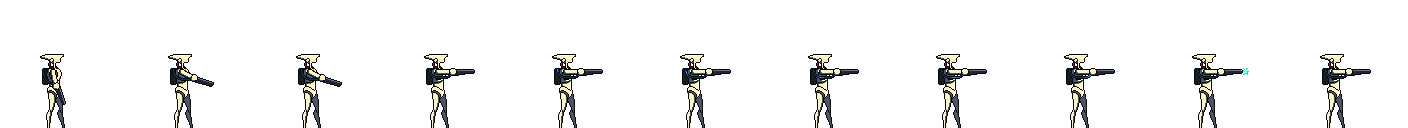
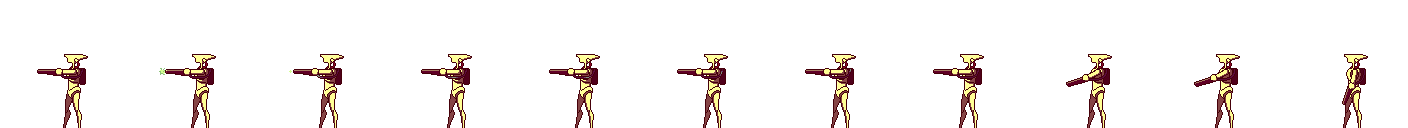
mtn y'a tout les perso

diff --git a/affichage.cpp b/affichage.cpp
@@ -49,6 +49,10 @@ int affichage(Terrain* terrain,mutex * lock_unit,mutex * lock_perso)
     sf::Texture pekka2;
     sf::Texture apekka;
     sf::Texture apekka2;
+    sf::Texture shooter;
+    sf::Texture shooter2;
+    sf::Texture ashooter;
+    sf::Texture ashooter2;
 
 
     sf::Texture pv_mob;
@@ -81,10 +85,16 @@ int affichage(Terrain* terrain,mutex * lock_unit,mutex * lock_perso)
 
     geant.loadFromFile("perso/geant/walking.png");
     geant2.loadFromFile("perso/geant/walking2.png");
+
     pekka.loadFromFile("perso/pekka/Walk1.png");
     pekka2.loadFromFile("perso/pekka/Walk2.png");
     apekka.loadFromFile("perso/pekka/Attack1.png");
     apekka2.loadFromFile("perso/pekka/Attack2.png");
+
+    shooter.loadFromFile("perso/shooter/Walk1.png");
+    shooter2.loadFromFile("perso/shooter/Walk2.png");
+    ashooter.loadFromFile("perso/shooter/Shot1.png");
+    ashooter2.loadFromFile("perso/shooter/Shot2.png");
 
 
     //Creation des sprites des elements graphiques
@@ -200,6 +210,15 @@ int affichage(Terrain* terrain,mutex * lock_unit,mutex * lock_perso)
     sapekka1.setTexture(apekka);
     sf::Sprite sapekka2;
     sapekka2.setTexture(apekka2);
+
+    sf::Sprite sshooter;
+    sshooter.setTexture(shooter);
+    sf::Sprite sshooter2;
+    sshooter2.setTexture(shooter2);
+    sf::Sprite sashooter;
+    sashooter.setTexture(ashooter);
+    sf::Sprite sashooter2;
+    sashooter2.setTexture(ashooter2);
 
 
 
@@ -404,7 +423,12 @@ int affichage(Terrain* terrain,mutex * lock_unit,mutex * lock_perso)
                 // detection des sorts de heal
                 if (sf::Keyboard::isKeyPressed(sf::Keyboard::S)){
                     if(elexir1>3){
-                    elexir1-=3;                    
+                    elexir1-=3;
+                    ajout_troupe_sort h;
+                    h.nom = 'S';
+                    h.joueur = 0;
+                    h.position = position_J1;
+                    tableau_ajout.push_back(h);             
                     if(heal[0][1]!=4*hz){
                         heal[1][0]=position_J1;
                         heal[1][1]=0;}
@@ -415,7 +439,12 @@ int affichage(Terrain* terrain,mutex * lock_unit,mutex * lock_perso)
                 }
                 if (sf::Keyboard::isKeyPressed(sf::Keyboard::K)){
                     if(elexir2>3){
-                    elexir2-=3;                    
+                    elexir2-=3;
+                    ajout_troupe_sort h;
+                    h.nom = 'S';
+                    h.joueur = 1;
+                    h.position = position_J1;
+                    tableau_ajout.push_back(h);                       
                     if(heal[2][1]!=4*hz){
                         heal[3][0]=position_J2;
                         heal[3][1]=0;}
@@ -428,6 +457,11 @@ int affichage(Terrain* terrain,mutex * lock_unit,mutex * lock_perso)
                 if (sf::Keyboard::isKeyPressed(sf::Keyboard::Q)){
                     if(elexir1>3){
                     elexir1-=3;
+                    ajout_troupe_sort p;
+                    p.nom = 'T';
+                    p.joueur = 0;
+                    p.position = position_J1;
+                    tableau_ajout.push_back(p);   
 
                     if(poison[0][1]!=6*120){
                         poison[1][0]=position_J1;
@@ -439,7 +473,12 @@ int affichage(Terrain* terrain,mutex * lock_unit,mutex * lock_perso)
                 }
                 if (sf::Keyboard::isKeyPressed(sf::Keyboard::J)){
                     if(elexir2>3){
-                    elexir2-=3;                    
+                    elexir2-=3;    
+                    ajout_troupe_sort t;
+                    t.nom = 'T';
+                    t.joueur = 1;
+                    t.position = position_J1;
+                    tableau_ajout.push_back(t);                   
                     if(poison[2][1]!=6*120){
                         poison[3][0]=position_J2;
                         poison[3][1]=0;}
@@ -510,20 +549,19 @@ int affichage(Terrain* terrain,mutex * lock_unit,mutex * lock_perso)
         //boule de feu
         //affichage des Boules de feu
         for (int k=0;k<4;k++){
+            if (BDF[k][1]==1){
+                ajout_troupe_sort t;
+                    t.nom = 'B';
+                    t.joueur = k/2;
+                    t.position = BDF[k][0];
+                    tableau_ajout.push_back(t);
+            }
             if (BDF[k][1]>0){
                 sbdf.setTextureRect(sf::IntRect(153*(BDF[k][1]%6),0,153,154));
                 sbdf.setPosition(sf::Vector2f(313 + (BDF[k][0]*1500)/Nombre_de_case,774-BDF[k][1]*8));
                 window.draw(sbdf);
                 BDF[k][1]--;
-                if (BDF[k][1]==1){
-                    ajout_troupe_sort b;
-                    b.nom = 'B';
-                    b.joueur = k/2;
-                    b.position = BDF[k][0];
-                    lock_unit->lock();
-                    tableau_ajout.push_back(b);
-                    lock_unit->unlock();
-        }
+
                 }
             }
         // affichage du sort de heal
@@ -537,13 +575,7 @@ int affichage(Terrain* terrain,mutex * lock_unit,mutex * lock_perso)
                     sheal.setPosition(sf::Vector2f(154 + (heal[k][0]*1500)/Nombre_de_case,710));}
                 window.draw(sheal);
                 heal[k][1]++;
-                if (heal[k][1]==1){
-                    ajout_troupe_sort h;
-                    h.nom = 'S';
-                    h.joueur = k/2;
-                    h.position = heal[k][0];
-                    tableau_ajout.push_back(h);
-                }
+                
                 }
             }
         for (int k=0;k<4;k++){
@@ -552,14 +584,6 @@ int affichage(Terrain* terrain,mutex * lock_unit,mutex * lock_perso)
                 spoison.setPosition(sf::Vector2f(160 + (poison[k][0]*1500)/Nombre_de_case,700));
                 window.draw(spoison);
                 poison[k][1]++;
-                if (poison[k][1]==1){
-                    //envoyer info au jeu
-                    ajout_troupe_sort p;
-                    p.nom = 'P';
-                    p.joueur = k/2;
-                    p.position = heal[k][0];
-                    tableau_ajout.push_back(p);
-                }
                 }
             }
         //////////////// affichage des personnages 
@@ -577,7 +601,6 @@ int affichage(Terrain* terrain,mutex * lock_unit,mutex * lock_perso)
                 else {
                     sgeant2.setTextureRect(sf::IntRect(808- 202*((compteur/10)%5),184*((compteur/50)%8),202,184));
                     sgeant2.setPosition(sf::Vector2f(154 +(unit.get_position()*1500)/Nombre_de_case,650));
-                    std::cout<< unit.get_position()<<std::endl;
                     window.draw(sgeant2);}
 
                 }
@@ -586,6 +609,26 @@ int affichage(Terrain* terrain,mutex * lock_unit,mutex * lock_perso)
             
             //affichage des infentries
             if (unit.get_nom() == 'I'){
+                if (unit.get_joueur()==0){
+                    if (unit.get_attaque()==0){
+                        sshooter.setTextureRect(sf::IntRect(128*((compteur/10)%6),0,128,128));
+                        sshooter.setPosition(sf::Vector2f(154 + (unit.get_position()*1500)/Nombre_de_case,706));
+                        window.draw(sshooter);}
+                    else{
+                        sashooter.setTextureRect(sf::IntRect(128*((compteur/10)%11),0,128,128));
+                        sashooter.setPosition(sf::Vector2f(154 + (unit.get_position()*1500)/Nombre_de_case,706));
+                        window.draw(sashooter);}
+                    }
+                else {
+                    if (unit.get_attaque()==0){
+                        sshooter2.setTextureRect(sf::IntRect(640- 128*((compteur/10)%6),0,128,128));
+                        sshooter2.setPosition(sf::Vector2f(154 +(unit.get_position()*1500)/Nombre_de_case,706));
+                        window.draw(sshooter2);}
+                    else{
+                        sashooter2.setTextureRect(sf::IntRect(1280- 128*((compteur/10)%11),0,128,128));
+                        sashooter2.setPosition(sf::Vector2f(154 + (unit.get_position()*1500)/Nombre_de_case,706));
+                        window.draw(sashooter2);}
+                    }
                 
 
                 
@@ -605,7 +648,6 @@ int affichage(Terrain* terrain,mutex * lock_unit,mutex * lock_perso)
                     if (unit.get_attaque()==0){
                         spekka2.setTextureRect(sf::IntRect(896- 128*((compteur/10)%8),0,128,128));
                         spekka2.setPosition(sf::Vector2f(154 +(unit.get_position()*1500)/Nombre_de_case,706));
-                        std::cout<< unit.get_position()<<std::endl;
                         window.draw(spekka2);}
                     else{
                         sapekka2.setTextureRect(sf::IntRect(384- 128*((compteur/10)%4),0,128,128));

diff --git a/sort.cpp b/sort.cpp
@@ -6,8 +6,8 @@
 
 
 Soin::Soin(int joueur ,int position){
-    _temps_effet=20;
-    _effet_vie=5;
+    _temps_effet=100;
+    _effet_vie=1;
     _cout=3;
     _effet_sur_joueur=joueur;
     _slowdown=0;
@@ -15,8 +15,8 @@ Soin::Soin(int joueur ,int position){
     _position=position;
 }
 Soin::Soin(const Joueur joueur ,int position){
-    _temps_effet=20;
-    _effet_vie=5;
+    _temps_effet=100;
+    _effet_vie=1;
     _cout=3;
     _effet_sur_joueur=joueur.get_nb_joueur();
     _slowdown=0;
@@ -26,8 +26,8 @@ Soin::Soin(const Joueur joueur ,int position){
 
 
 Poison::Poison(int joueur ,int position){
-    _temps_effet=20;
-    _effet_vie=-3;
+    _temps_effet=50;
+    _effet_vie=-1;
     _cout=3;
     _effet_sur_joueur=(joueur+1)%2;
     _slowdown=2;
@@ -36,8 +36,8 @@ Poison::Poison(int joueur ,int position){
 }
 
 Poison::Poison(const Joueur joueur ,int position){
-    _temps_effet=20;
-    _effet_vie=-3;
+    _temps_effet=50;
+    _effet_vie=-1;
     _cout=3;
     _effet_sur_joueur=(joueur.get_nb_joueur()+1)%2;
     _slowdown=2;

diff --git a/terrain.cpp b/terrain.cpp
@@ -204,7 +204,6 @@ int Terrain::get_pv_tour(int joueur){
 }
 
 void Terrain::ajout_units(){
-    cout<<tableau_ajout.size()<<endl;
     for ( auto it = begin (tableau_ajout); it != end (tableau_ajout); ) {
         cout<<it->nom<<endl;
         switch (it->nom)
@@ -231,6 +230,7 @@ void Terrain::ajout_units(){
             break;
         case 'B':
             utilisation_sort(new Boule_de_feu(it->joueur,it->position));
+            cout<<"couille"<<endl;
             it=tableau_ajout.erase(it);
             break;
         
